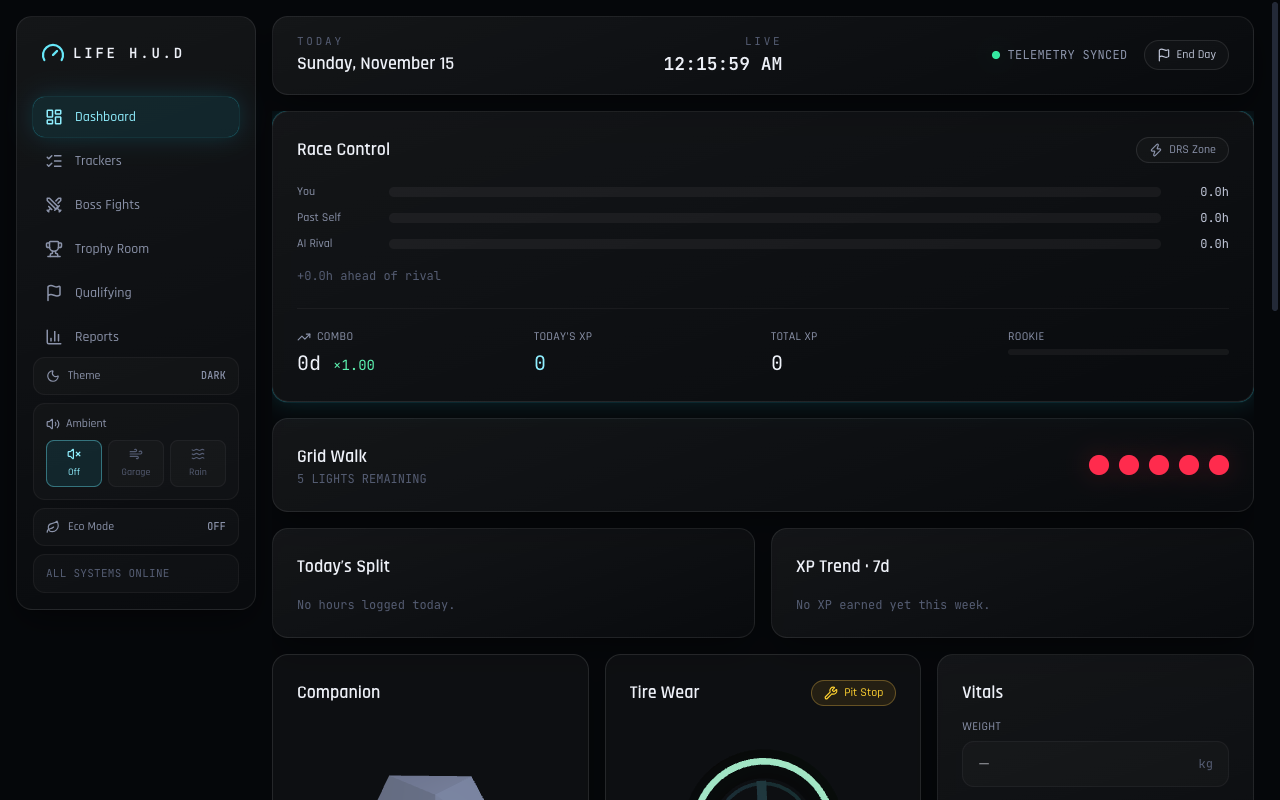
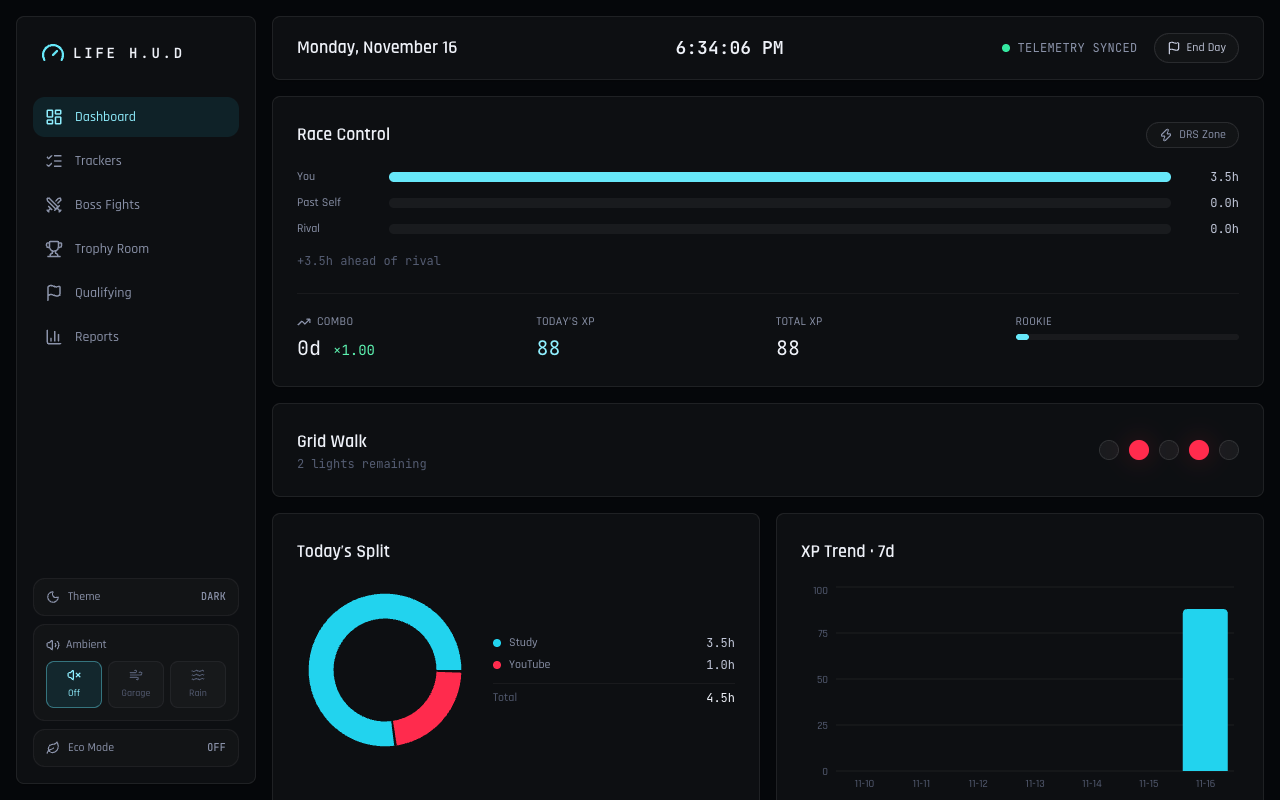
Rewrite README and update the screenshot

diff --git a/README.md b/README.md
@@ -1,47 +1,50 @@
 # Life H.U.D
 
 A personal life dashboard styled like a motor-racing pit wall. You log your day (habits, study hours, weight, water,
-notes), and the app turns it into XP, streaks, a streak-driven 3D companion, trophies and weekly targets. It is a
-single-page web app that runs entirely in your browser: there is no server, no account and no network call for your
-data.
+notes) and the app turns it into XP, streaks, a 3D companion, trophies and weekly targets. It is a single-page web
+app that runs entirely in your browser, with no server, no account and no network calls for your data.
 
-Built with React, TypeScript, Vite, Tailwind CSS 4 and three.js. This is a personal project, shared as it is.
+Built with React, TypeScript, Vite, Tailwind CSS 4 and three.js. It's a personal project, shared as it is.
 
-**Try it live: https://saifcs50-cs50.github.io/life-hud/** (your data stays in your own browser).
+Try it live: **https://saifcs50-cs50.github.io/life-hud/** (your data stays in your own browser).
 
 ![Life H.U.D dashboard](screenshot.png)
 
-## What it does
+## The dashboard
 
-- **Dashboard**: today's log in one place.
-  - *Race Control* compares today's productive hours with your best day and an "AI Rival" over the last 7 days.
-    The rival is not an AI: it is the average of your past productive days multiplied by a fixed factor (x1.075,
-    or x1.2 after a "black flag").
-  - *Grid Walk* shows five red lights (better than yesterday, water, workout, morning routine, journal) that go out as
-    you tick them.
-  - Four "non-negotiables" (workout, reading, journaling, eating clean), a morning and evening skincare checklist,
-    water glasses (8 is the goal), weight, a 1-5 skin rating, notes, and hours for study, YouTube, Instagram and web
-    series, plus late-night work in minutes.
-  - *Companion*: a 3D shape that evolves at 1,500 and 5,000 career XP. *Tire Wear*: a 3D tyre whose grip drops with
-    study and late-night load; the Pit Stop button restores 25% each press.
-  - *Brain Dump*: sticky notes. *Today's Split* and *XP Trend* charts.
-- **Trackers**: log your own activities (productive or unproductive) with hours, plus a 30-day weight chart and a
+Race Control compares today's productive hours with your best day and a rival over the last 7 days. The rival is
+plain arithmetic: the average of your past productive days times a fixed factor (x1.075, or x1.2 after a "black
+flag"). Grid Walk shows five red lights (better than yesterday, water, workout, morning routine, journal) that go
+out as you tick them off.
+
+Below that are four non-negotiables (workout, reading, journaling, eating clean), a morning and evening skincare
+checklist, water glasses (8 is the goal), weight, a 1-5 skin rating, notes, and hours for study, YouTube, Instagram
+and web series, plus late-night work in minutes. The Companion is a 3D shape that evolves at 1,500 and 5,000 career
+XP. Tire Wear is a 3D tyre whose grip drops with study and late-night load, and each Pit Stop press restores 25%.
+There are also sticky notes (Brain Dump) and two charts, Today's Split and XP Trend.
+
+## The other pages
+
+- Trackers: log your own activities, productive or unproductive, with hours. It also has a 30-day weight chart and a
   14-day hours chart.
-- **Boss Fights**: exams as bosses. Give a subject, a date and the hours needed; log hours to drain its health bar.
-- **Trophy Room**: seven milestone trophies unlock by themselves (first combo, 3-day streak, slipstream, 100 XP,
-  companion stages 2 and 3, first boss defeated).
-- **Qualifying**: set weekly hour targets and tick them off. On Saturday and Sunday it shows next week.
-- **Reports**: export or import everything as a JSON backup, copy a plain-text summary, or wipe all data.
-- Dark and light themes, an Eco Mode that swaps the 3D cards for flat ones, and two ambient sounds (garage hum,
-  rain) that are synthesised with the Web Audio API, so there are no audio files.
+- Boss Fights: exams as bosses. Give a subject, a date and the hours needed, then log hours to drain its health bar.
+- Trophy Room: seven trophies unlock by themselves (first combo, 3-day streak, slipstream, 100 XP, companion stages 2
+  and 3, first boss defeated).
+- Qualifying: set weekly hour targets and tick them off. On Saturday and Sunday it shows next week.
+- Reports: export or import everything as a JSON backup, copy a plain-text summary, or wipe all data.
 
-### How XP works
+There are dark and light themes, an Eco Mode that swaps the 3D cards for flat ones, and two ambient sounds (garage
+hum, rain) synthesised with the Web Audio API, so the repo has no audio files.
 
-Each of the four non-negotiables is 10 XP, a complete morning or evening skincare routine is 5 each, "better than
-yesterday" is 5, reaching 8 glasses is 5, and every study hour or productive tracker hour is 15 XP (study hours count
-double while the DRS Zone button is on). The *combo* is all four non-negotiables in one day. Each combo day in a row
-adds 5% to today's XP (up to 10 days); three in a row switches on *Slipstream* (x1.5 XP), and three missed days in a
-row (days you logged but did not complete the combo) switch on *Black Flag*.
+## How XP works
+
+Each non-negotiable is 10 XP. A complete morning or evening skincare routine is 5 each, "better than yesterday" is 5,
+reaching 8 glasses is 5, and every study hour or productive tracker hour is 15 XP. Study hours count double while the
+DRS Zone button is on.
+
+A combo is all four non-negotiables in one day. Each combo day in a row adds 5% to today's XP (up to 10 days), and
+three in a row switches on Slipstream (x1.5 XP). Three missed days in a row (days you logged without completing the
+combo) switch on Black Flag.
 
 ## Run it
 
@@ -65,23 +68,24 @@ The live demo is the same build with GitHub Pages' sub-path: `npx vite build --b
 ## Your data
 
 Everything is stored in your browser's IndexedDB (database `life-hud`) and `localStorage` (theme and Eco Mode only).
-Clearing site data deletes it, and nothing syncs between browsers or devices, so use Reports > Export Backup
-now and then. Importing a backup replaces all current data.
+Clearing site data deletes it and nothing syncs between browsers or devices, so use Reports > Export Backup now and
+then. Importing a backup replaces all current data.
 
-The only request the page makes to the outside is for the two fonts from Google Fonts (see [CREDITS.md](CREDITS.md)).
+The only outside request the page makes is for two fonts from Google Fonts (see [CREDITS.md](CREDITS.md)).
 
 ## Known gaps
 
 - There are no automated tests.
-- The layout is built for a desktop-width window; there is no phone layout (the sidebar is always visible).
-- The habit lists (skincare steps, non-negotiables, the tracked apps) are hard-coded in the source, not configurable
-  in the app. The Trackers page covers extra activities.
-- The production bundle is a single large JavaScript file (about 1.8 MB, 520 kB gzipped) because there is no code
+- It's laid out for a desktop window first. On a phone the sidebar becomes a bar above the content, and the ambient
+  sound control is hidden.
+- The habit lists (skincare steps, non-negotiables, the tracked apps) are hard-coded in the source and can't be
+  changed in the app. The Trackers page covers extra activities.
+- The production bundle is one large JavaScript file (about 1.8 MB, 520 kB gzipped) because there is no code
   splitting yet.
-- `npm audit` reports high-severity advisories in build-time tooling (nanoid, source-map-js, Vite's dev server); they
-  are not in code that ships to the browser, and the lockfile has not been updated for them.
+- `npm audit` reports high-severity advisories in build-time tooling (nanoid, source-map-js, Vite's dev server).
+  They aren't in code that ships to the browser, and the lockfile hasn't been updated for them.
 
 ## Credits and licence
 
-Fonts, libraries and notes about the racing vocabulary are in [CREDITS.md](CREDITS.md). This project is not
-affiliated with Formula 1 or any racing team. Released under the [MIT licence](LICENSE).
+Fonts, libraries and notes on the racing vocabulary are in [CREDITS.md](CREDITS.md). This project is not affiliated
+with Formula 1 or any racing team. Released under the [MIT licence](LICENSE).
